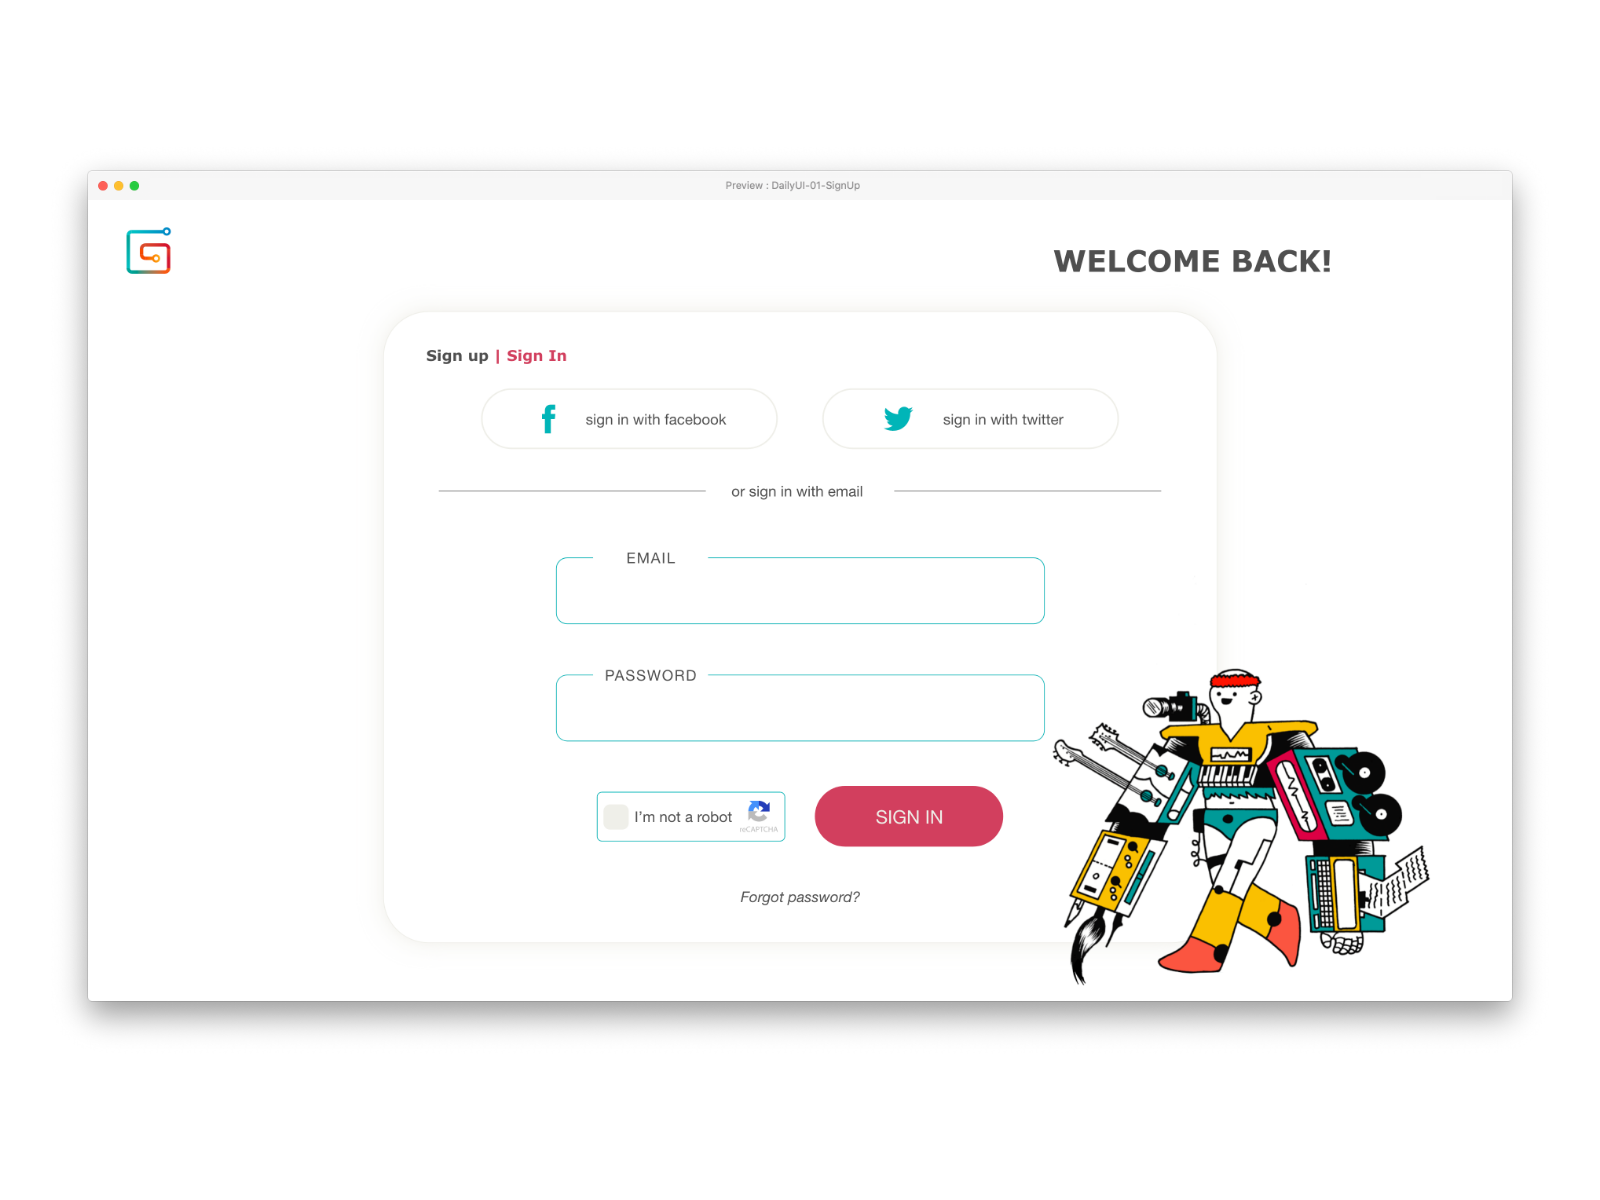
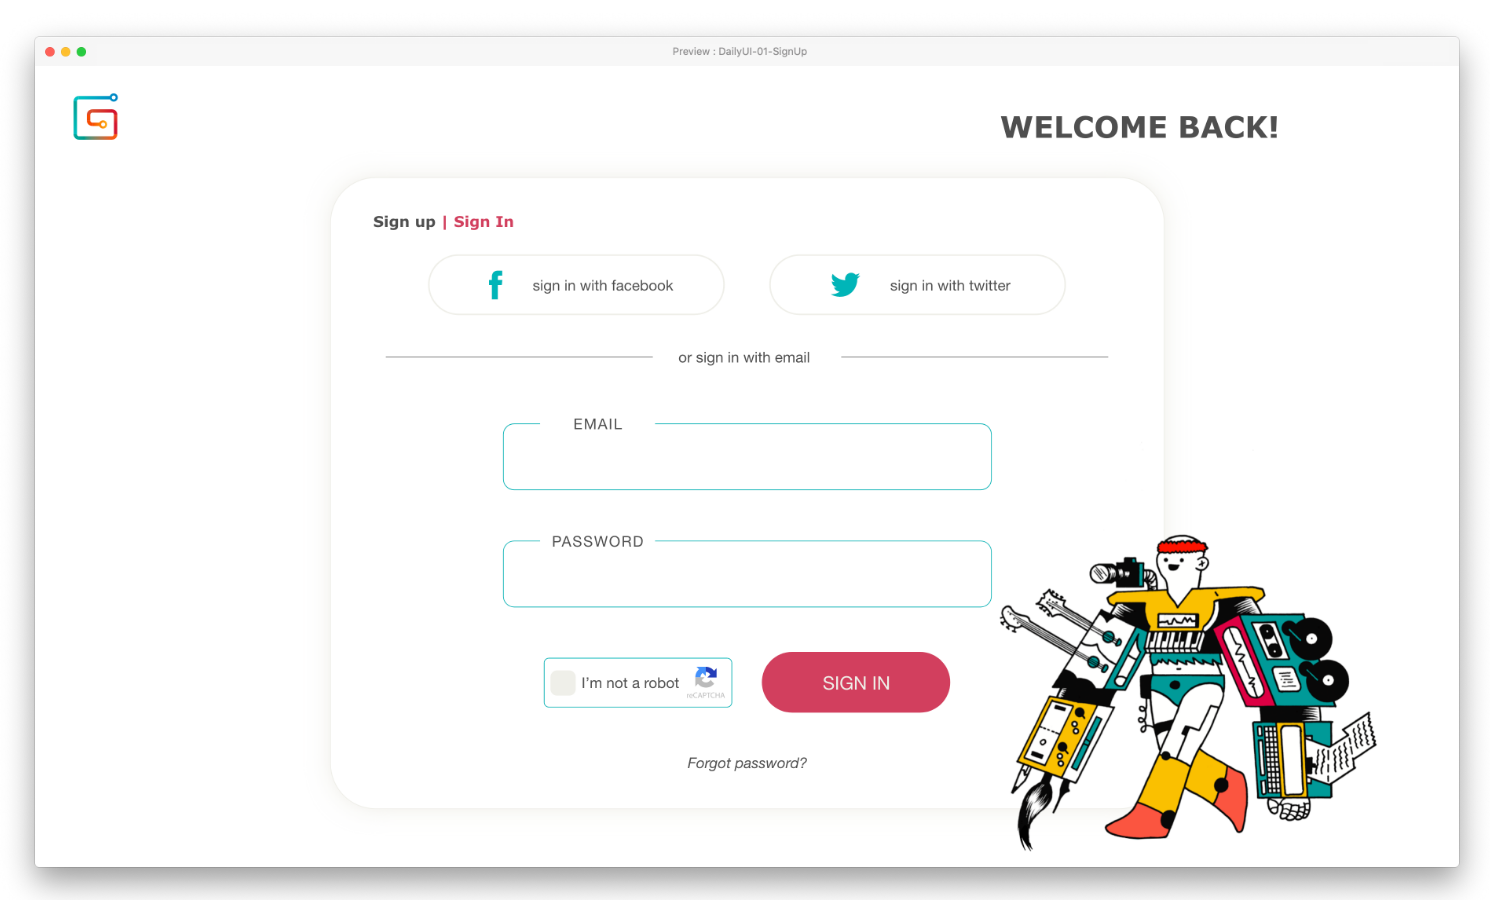
Fix image padding with crop

diff --git a/README.md b/README.md
@@ -1,4 +1,4 @@
-# DailyUI 01 : Gumroad Sign Up & Sign In Page
+bB# DailyUI 01 : Gumroad Sign Up & Sign In Page
 
 > Redesigning Gumroad's sign up and sign in page as part of the #DailyUI challenge.
 
@@ -14,7 +14,7 @@ I tried to keep the branding behind Gumroad by using their color theme and asset
 
 ## Color Theme
 
-| COLOR  | HEX     | S                                   |
+| COLOR  | HEX     | 🌈                                  |
 | ------ | ------- | ----------------------------------- |
 | Black  | #454545 | ![black](./screenshots/454545.png)  |
 | Grey   | #EDECE6 | ![grey](./screenshots/EDECE6.png)   |
@@ -23,17 +23,18 @@ I tried to keep the branding behind Gumroad by using their color theme and asset
 | Yellow | #FABE00 | ![yellow](./screenshots/FABE00.png) |
 | Salmon | #F27F6D | ![salmon](./screenshots/F27F6D.png) |
 
-## Code
+## Tools
 
+-   Adobe XD
 -   HTML5
 -   CSS3
 
 ## License
 
-[MIT licensce](./LICENSE) © AmiraDeuraseh
+[MIT Licensce](./LICENSE) © AmiraDeuraseh
 Free for personal and commercial use. Just credit me where its due.
 
 ## Links
 
-[Twitter](https://twitter.com/amiradeu)
+[Twitter](https://twitter.com/amiradeu) </br>
 [My Gumroad](http://amirajo.gumroad.com/)
